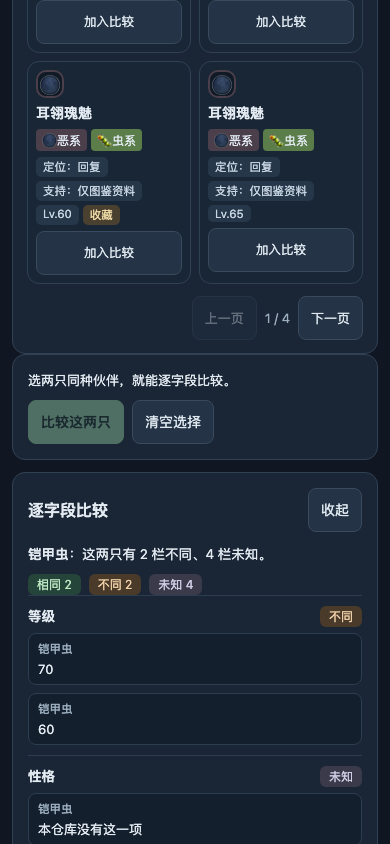
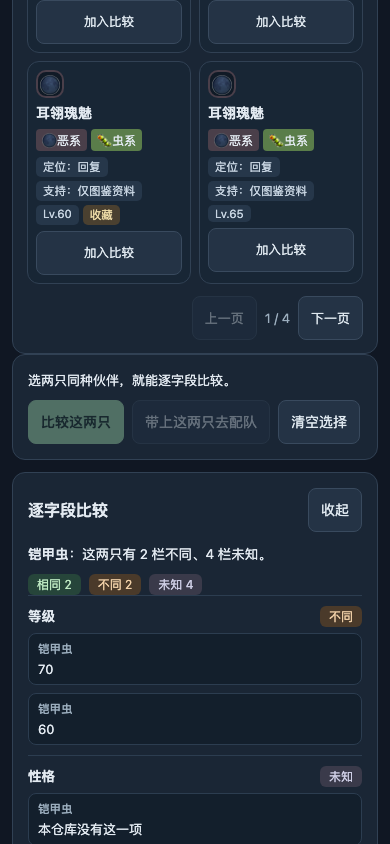
feat(rc801): 五分钟 Demo 第一段交接 —— 盒子「带上这两只去配队」→ 六槽工作台
这条路径原本真的是断的：比完两只个体后玩家得回产品页按名字再找一遍，「锁定」没有出口
（盒子里的 locked 只是筛选条件）。每一段各有验收，但没有一条量过「从盒子走到配队」。

- box.html 比较栏新增「带上这两只去配队」（任意两只可用，不要求同种）
- team-workshop.js 接受 opts.initialSelected：只认 own-\d+ 形状，认不出丢掉且不补位
- roco.js teamFromUrl() 只搬运 ?team=，不在这一层下结论（口径仍由工作台现算）
- 工作台写 data-tw-handoff；开局按钮规模与带过来的一致，文案如实说还差几只

实测（真键鼠）：入口 138×44 可用 → URL team=own-0001,own-0002、selected=2 handoff=2、
按钮规模 2；反证 2 条命中（入口禁用 / 交接改成 0）。
盒子验收 24/24+7/7；接进门禁成第 22 个套件；门禁 22/22

Changed region(s): [[0.3692, 0.4929, 0.6462, 0.5237], [0.7385, 0.4929, 0.8923, 0.5237]]

diff --git a/src/client/roco.js b/src/client/roco.js
@@ -1571,6 +1571,23 @@ function setPickHint(text) {
 }
 
 /**
+ * `?team=own-…,own-…` → 个体 id 数组（RC-801 的盒子→配队交接）。
+ *
+ * 只认 `own-\d+` 这种形状（那是盒子与工作台共用的个体 id）；认不出的整条丢掉，
+ * 并且**不补位** —— 带过来 3 只就是 3 只，少带的那几只由玩家自己在页面上选。
+ * 不做去重以外的任何加工：这一层不是校验层，坏 id 由服务端按 RC-301 的合同拒。
+ */
+function teamFromUrl(search = window.location.search) {
+  try {
+    const raw = new URLSearchParams(search).get('team');
+    if (!raw) return [];
+    return raw.split(',').map((id) => id.trim()).filter((id) => /^own-\d+$/.test(id)).slice(0, 6);
+  } catch {
+    return [];
+  }
+}
+
+/**
  * 全量名单（带 role/speed_tier/trait/mechanism_line）：选中项的名字回查、筛选下拉、以及
  * 「同一只不能同时在两边」都靠它。**不渲染**——渲染的是 `loadPool()` 给的那一页。
  *
@@ -2080,6 +2097,9 @@ function mountWorkshop() {
   if (!root) return;
   try {
     window.rocoTeamWorkshop = mountTeamWorkshop(root, {
+      // RC-801：盒子页「带上这两只去配队」把个体 id 放在 `?team=` 上带过来。
+      // 页面只做搬运：预填槽位，口径仍然由工作台那一套现算（不在这一层下任何结论）。
+      initialSelected: teamFromUrl(),
       onTeamChange: (detail) => {
         state.teamWorkshop = detail;
         // 六槽一变，开局按钮的可用性就跟着变（判据在 updateStandardPvpBar 里）。

diff --git a/src/client/box.js b/src/client/box.js
@@ -303,6 +303,10 @@ function renderCompareBar() {
   const bar = $('compare-bar');
   const sameGroup = selected.length === 2 && selected[0].group === selected[1].group;
   $('compare-go').disabled = !sameGroup;
+  // 「带上这两只去配队」要对**任意两只**可用（不要求同种）：配队看的是六只互补，
+  // 不是同种个体的差异。同种比较那条判据（`compare-go`）仍然只对同种开放。
+  const toTeam = $('compare-to-team');
+  if (toTeam) toTeam.disabled = selected.length === 0;
   if (selected.length === 0) {
     $('compare-hint').textContent = '选两只同种伙伴，就能逐字段比较。';
   } else if (selected.length === 1) {
@@ -464,6 +468,13 @@ function wire() {
   $('box-reset').addEventListener('click', resetFilters);
   $('detail-close').addEventListener('click', closeDetail);
   $('compare-go').addEventListener('click', () => void compareSelected());
+  // RC-801：把选中的个体**带去产品页的六槽工作台**（`?team=own-…,own-…`）。
+  // 只带 id，不带任何结论 —— 配队口径仍然由产品页那一套（RC-301…305）现算。
+  $('compare-to-team').addEventListener('click', () => {
+    const ids = state.selected.map((row) => row.select).filter(Boolean);
+    if (!ids.length) return;
+    window.location.href = `roco.html?team=${encodeURIComponent(ids.join(','))}`;
+  });
   $('compare-clear').addEventListener('click', () => {
     state.selected = [];
     $('compare-panel').hidden = true;

diff --git a/src/client/team-workshop.js b/src/client/team-workshop.js
@@ -293,8 +293,13 @@ export function mountTeamWorkshop(rootEl, opts = {}) {
    </div>`;
 
   const $ = (id) => shadow.getElementById(id);
+  // RC-801：从盒子带过来的初始选人（`?team=own-…`）。**只认形状对的 id**：
+  // 认不出的直接丢掉（不猜、不静默塞一个别的）——多带一只或少带一只都要看得见。
+  const initialSelected = Array.isArray(opts.initialSelected)
+    ? opts.initialSelected.filter((id) => typeof id === 'string' && /^own-\d+$/.test(id)).slice(0, TEAM_SLOTS)
+    : [];
   const state = {
-    selected: [],
+    selected: initialSelected.slice(),
     locked: [],
     favourite: false,
     maxReplacements: null,
@@ -499,6 +504,8 @@ export function mountTeamWorkshop(rootEl, opts = {}) {
 
   function renderEval(player, stage = 'full') {
     const selected = player?.selected_count ?? 0;
+    // 从盒子带过来的，页面上要看得见（`data-tw-handoff`），验收脚本按它核对交接真的到位。
+    if (initialSelected.length) rootEl.dataset.twHandoff = String(initialSelected.length);
     if (!player) { $('tw-eval-body').innerHTML = ''; $('tw-eval-sub').textContent = '—'; return; }
     // 初判阶段（`stage='first'`）：证据段服务端根本没跑，`player.full_team` 是 null。
     // 这里**如实说「正在补依据」**，而不是显示「五轴算不出来」——后者会把

diff --git a/src/client/box.html b/src/client/box.html
@@ -66,6 +66,9 @@
  <p id="compare-hint" role="status" aria-live="polite">选两只同种伙伴，就能逐字段比较。</p>
  <div class="compare-actions">
   <button id="compare-go" class="primary" disabled>比较这两只</button>
+  <!-- RC-801 的第一步交接：比完就该去配队，而不是让玩家回产品页再按名字找一遍。
+       带上的是**选中的个体 id**（`own-XXXX`），产品页的六槽工作台直接按它们预填。 -->
+  <button id="compare-to-team" disabled>带上这两只去配队</button>
   <button id="compare-clear">清空选择</button>
  </div>
 </section>

diff --git a/docs/roadmap/DSH-EXECUTION-STATE.md b/docs/roadmap/DSH-EXECUTION-STATE.md
@@ -44,7 +44,7 @@
 |---|---|
 | 已提交的 HEAD | 见下面 git log（本节写下时是 `817fdec`；v3 纠偏与 RC-101～RC-304 见 §C6.15～§C6.29，第 93 轮的三路 P0/RC-105 见 §C6.30，第 94 轮的 RC-306/机制渲染/RC-106 见 §C6.31）——**所有代码与文档都已提交**，工作区里只剩运行产物 |
 | 最近一次**全绿** gate | `42596b0` 前一次运行（2026-09-21T15:2xZ，**16/16**，含新增的 `reconciliation` 与 `game-data-pack` 两条套件）。第 45 轮把 `state-doc` 的第二处自指死锁拆掉了（「全绿记录落后 >12 个提交」从硬失败改成警告），所以**可以**跑出新的全绿来刷新它 |
-| 闸门现状 | **21/21 全绿**（`latest.json` 与 `last-green.json` 同时为绿，rc=0）。`unit` 在**有重活并行时**会偶发红（Python 后端的用例在 CPU 争抢下超时）——跑 gate 前先确认没有别的重任务在跑；**尤其不要在 gate 期间让别的 agent 写 `src/coach/intervention-model.js`**（`guard-selftest` 会临时重写它） |
+| 闸门现状 | **22/22 全绿**（`latest.json` 与 `last-green.json` 同时为绿，rc=0）。`unit` 在**有重活并行时**会偶发红（Python 后端的用例在 CPU 争抢下超时）——跑 gate 前先确认没有别的重任务在跑；**尤其不要在 gate 期间让别的 agent 写 `src/coach/intervention-model.js`**（`guard-selftest` 会临时重写它） |
 | 未提交（运行产物，不是代码） | 无（这一阶段收尾时工作区是干净的） |
 | **跨机器协作区（2026-09-21 建立）** | Mac DSH（我）与 Windows DSH 通过 `SeRendizc/ai-dev-platform` 的 `coord/roco-coach` 分支上 `projects/roco-coach/` 交换**durable facts**：我只改 `MAC_STATUS.md` 与 `CONTRACTS.md`，需要 Windows 的事追加 `BLOCKERS.md`，方向性改变追加 `DECISIONS.md`；**契约只有证据齐全才能标 `ready`**（它是正式训练闸门）。摘要与同步循环见 `docs/roadmap/CROSS-MACHINE-COORDINATION.md`；每个工作阶段开始与结束各同步一次 |
 | **v3 纠偏生效（2026-09-21）** | **标准 PVP 改按六宠设计**（候选规则，`CROSS_SOURCE_SUPPORTED`，禁止写成官方事实）；官方 3v3/2 魔力是**极速对决**独立 BattleMode；**48 只只是迁移夹具**，候选宇宙是全量 600+；匹配前对手未知，按版本 Meta prior 评价；**在线 3 秒内禁止批量模拟**。停止用旧规则（max=6/入场 2/回合末 +1）生成或重训任何产物（13 条已进「禁止重跑」清单）。入口：`docs/roadmap/FLAGSHIP-V3-REDIRECT.md`、`docs/roadmap/FLAGSHIP-V3-CHECKLIST.md`；机器可读：`reports/roco/flagship-upgrade/{baseline,artifact-invalidation}.json`、`data/roco/battle-modes.json`、`data/roco/evidence/rule-evidence-ledger.json` |
@@ -726,7 +726,7 @@ active goal 已按此重写（revision 2）。
 |---|---|
 | HEAD | `7faacc1`（`feat(rc106): 六宠标准 PVP 真的能开一局`）。口径不变：文档声明的 HEAD 落后一两个提交是正常的（写文档本身也要一次提交），**但落后 >12 个提交会判红**——这一行要跟着阶段的最后一个提交走。历史断点必须写成 `| HEAD（…当时…） |`，因为 `verify-state-doc.mjs` 取的是文件里**第一处** `| HEAD | `。 |
 | 工作区 | **只有本轮尚未提交的文档/判据改动**（代码与产物都已按路径分次提交） |
-| 验证 | **一条命令可复现**：`npm run verify:release` → **21 个套件全绿**（env / unit / bridge / toolbox-roco / plan-e2e / trajectories / **trajectories-model** / sft-split / model-manifest / provenance / **rag-eval** / **reconciliation** / **game-data-pack** / state-doc / guard-selftest / 浏览器验收 / demo 产品判据 / **保留资产复验** / **移动端总扫** / **工坊与取舍验收** / **P0 真实键鼠 UX 验收**），产物 `reports/roco/verification/latest.json`。另有 `reports/roco/verification/last-green.json`：**最近一次全绿运行**的记录（`latest.json` 可能是红的，这一份只有全绿才写）。**判据条数以产物为准**（`demo-acceptance/demo-acceptance.json` 的 `passed/failed`，当前 119/0），不在这里手抄。**注意**：`verify-state-doc.mjs` 取的是文件里**第一处** `| HEAD | \`hash\`` —— 所以历史断点里的那一行必须写成 `| HEAD（…当时…） |`，否则它会去核对一份早已过期的快照（第 65 轮实测踩到） |
+| 验证 | **一条命令可复现**：`npm run verify:release` → **22 个套件全绿**（env / unit / bridge / toolbox-roco / plan-e2e / trajectories / **trajectories-model** / sft-split / model-manifest / provenance / **rag-eval** / **reconciliation** / **game-data-pack** / state-doc / guard-selftest / 浏览器验收 / demo 产品判据 / **保留资产复验** / **移动端总扫** / **盒子交接验收** / **工坊与取舍验收** / **P0 真实键鼠 UX 验收**），产物 `reports/roco/verification/latest.json`。另有 `reports/roco/verification/last-green.json`：**最近一次全绿运行**的记录（`latest.json` 可能是红的，这一份只有全绿才写）。**判据条数以产物为准**（`demo-acceptance/demo-acceptance.json` 的 `passed/failed`，当前 119/0），不在这里手抄。**注意**：`verify-state-doc.mjs` 取的是文件里**第一处** `| HEAD | \`hash\`` —— 所以历史断点里的那一行必须写成 `| HEAD（…当时…） |`，否则它会去核对一份早已过期的快照（第 65 轮实测踩到） |
 | 日志 | `reports/roco/verification/round8..round30-*.log` + `latest.json` |
 | 守卫自检 | `npm run guard:selftest`：7 条注入，**7/7 全部变红**；另有各自带反证的检查：`verify-agent-trajectories --selftest` 3/3、`verify-sft-split --selftest` 7/7、`model-arm-identity` 正反两向 |
 | 文档一致性 | `npm run verify:state-doc`：声明的 HEAD 仍在历史里、验证产物在、没有引用不存在的路径。**第 38 轮改掉了它的自指死锁**：原来它要求「最近一次 verify:release 必须是 pass」，而 `verify:release` 里又有 `unit`包含这条断言——一次失败之后每次跑都会因为上一次红而红，唯一出路是手改 `latest.json`。现在硬判据是 `last-green.json`（必须存在一次全绿、verdict=pass、套件数够、它记的 HEAD 仍在当前历史里），`latest.json` 红了只报**警告**。**第 45 轮又拆掉同形状的第二处死锁**：「落后 >12 个提交」原来是硬失败，而这条断言同时长在 `unit` 里——一个阶段提交超过 12 次之后，`last-green` 追不上、`verify:release` 永远绿不了，也永远写不出新的 `last-green`（实测 19 个提交时 14 个套件里只有 `unit` 与 `state-doc` 红，两条红的是同一条断言）。现在落后只报警告，`tests/evals/state-doc.test.js` 有一条正反两向的回归（反证：把警告改回硬失败，立刻红） |
@@ -2189,3 +2189,29 @@ replay / grader.positive）零失败，且 **17760 条负数样本全被抓到**
 
 **边界**：「最大下行」是启发式估值（伤害公式未核验），页面照实标「未核验」而不是给一个像胜率的数字；
 非标准模式（练习局）沿用同一套口径，但本轮只对 v3 六宠局留了证据。
+
+### C6.45 第 108 轮：RC-801 第一段交接（盒子 → 配队）—— 那条路径原本真的是断的
+
+**五分钟 Demo 的每一段都各自有验收**（盒子 22 条、工坊 42 条、UX 39 条、demo 119 条），
+但**没有任何一条**量过「从盒子走到配队」。实测的结果是：**那里真的是断的** ——
+比完两只个体之后，玩家得回产品页按名字再找一遍；「锁定」这一步根本没有出口
+（盒子里的 `locked` 只是个筛选条件）。
+
+**本轮补上交接**：
+
+- `box.html` 比较栏新增「**带上这两只去配队**」（对任意两只可用，不要求同种 ——
+  配队看的是六只互补，不是同种差异；同种差异那条判据仍然只对同种开放）；
+- `team-workshop.js` 接受 `opts.initialSelected`：**只认 `own-\d+` 形状**，认不出的丢掉且**不补位**；
+- `roco.js` 的 `teamFromUrl()` 只做 `?team=` 的搬运，**不在这一层下任何结论** ——
+  配队口径仍然由工作台那一套（RC-301…305）现算；
+- 工作台把交接数量写在 `data-tw-handoff` 上；开局按钮读到的规模与带过来的一致，
+  文案如实说「选满六只才能开局（当前 2 只）」。
+
+**实测**（真键鼠，盒子验收新增 2 条判据 + 2 条反证）：入口可用且 **138×44**；真鼠标点它 →
+URL `team=own-0001,own-0002`、工作台 `selected=2 handoff=2`、开局按钮规模 2。
+反证：把入口禁用 / 把交接数量改成 0，同一条判据必须红。
+
+**接进门禁**：盒子验收成为第 **22** 个套件（17 秒）。盒子 **24/24 + 7/7**。门禁 **22/22**。
+
+**还差**（下一步）：`locked` 标记目前只是筛选条件、还没进交接；局末教学段在这条链路上缺端到端证据；
+「五分钟」这条**时间预算**还没有判据（现在只判步骤到位、不判耗时）。

diff --git a/docs/roadmap/FLAGSHIP-V3-CHECKLIST.md b/docs/roadmap/FLAGSHIP-V3-CHECKLIST.md
@@ -89,7 +89,7 @@
 
 | RC | 内容 | 状态 |
 |---|---|---|
-| RC-801 | 五分钟 Demo（盒子 → 个体比较 → 锁定 → 补队 → 战斗 → 主动提示 → 展开取舍 → 局末教学） | NOT_STARTED |
+| RC-801 | 五分钟 Demo（盒子 → 个体比较 → 锁定 → 补队 → 战斗 → 主动提示 → 展开取舍 → 局末教学） | **IN_PROGRESS（第 1 段交接已通并进判据）** | **为什么先做这一步**：这条路径的每一段都各自有验收（盒子 22 条、工坊 42 条、UX 39 条、demo 119 条），但**没有任何一条**量过「从盒子走到配队」——实测那里真的是断的：比完两只之后玩家得回产品页按名字再找一遍，「锁定」这一步根本没有出口。**本轮补上交接**：`box.html` 比较栏新增「带上这两只去配队」（对任意两只可用，不要求同种 —— 配队看的是六只互补），真鼠标点一下跳到 `roco.html?team=own-…,own-…`；`team-workshop.js` 接受 `opts.initialSelected` （**只认 `own-\d+` 形状**，认不出的丢掉且不补位），`roco.js` 的 `teamFromUrl()` 只做搬运、不下任何结论；工作台把交接数量写在 `data-tw-handoff` 上，开局按钮读到的规模与带过来的一致，文案如实说「选满六只才能开局（当前 2 只）」。**实测**（真键鼠，盒子验收新增两条 + 两条反证）：入口可用且 138×44；点它 → URL `team=own-0001,own-0002`、工作台 `selected=2 handoff=2`、开局按钮规模 2；反证：把入口禁用 / 把交接数量改成 0，同一条判据必须红。盒子验收 **24/24 + 7/7**，并接进门禁成为第 **22** 个套件。**还差**（下一步）：锁定（盒子里的 `locked` 标记目前只是筛选条件，没有进交接）、局末教学段在这一条链路上的端到端证据，以及「五分钟」这条**时间预算**的判据（目前只判步骤到位、不判耗时）|
 | RC-802 | 开发者证据抽屉（默认隐藏 ruleset/support/latency/digest/evidence） | 已具备雏形（`#about-drawer`）；六槽改造后需 revalidate |
 | RC-803 | 面试报告 | NOT_STARTED |
 
